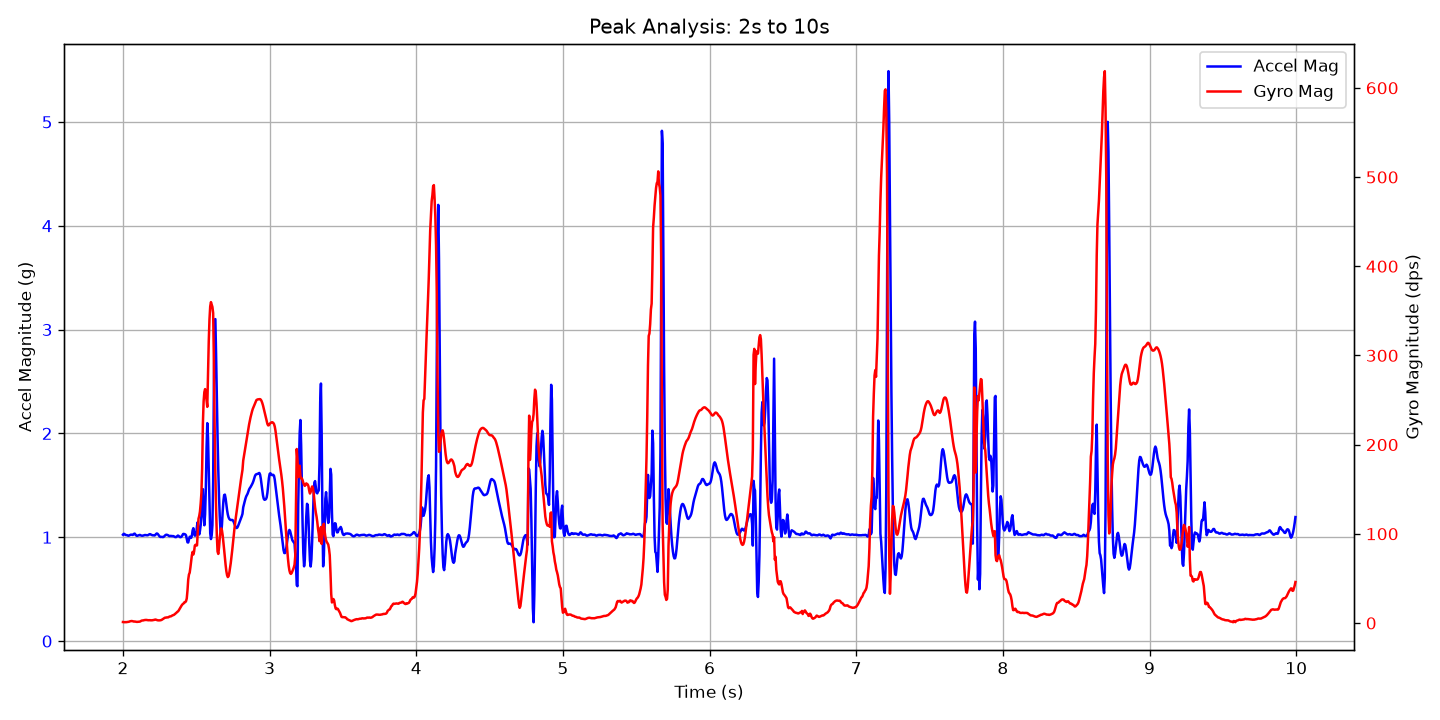
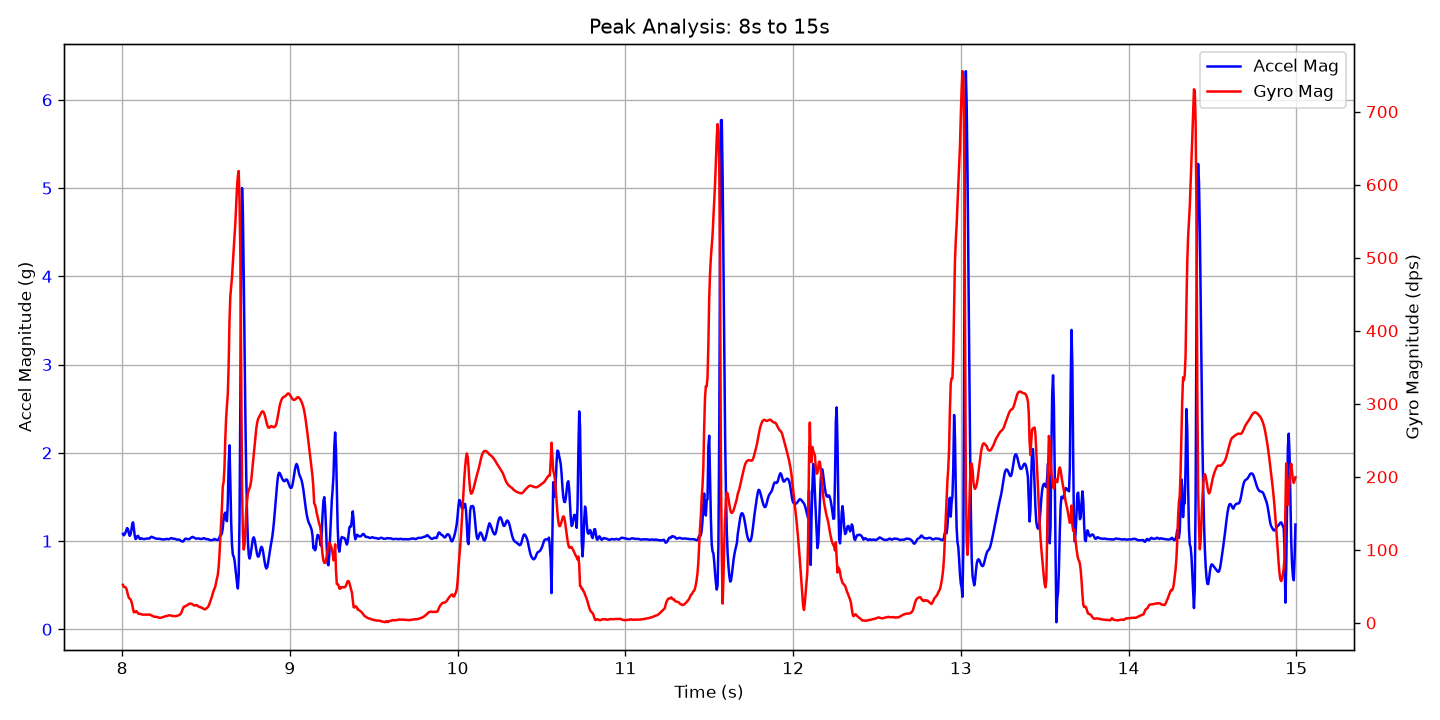
Added another 5s plot

diff --git a/analysis/walk_heel_recordings/walk_and_heel_strike_5s.py b/analysis/walk_heel_recordings/walk_and_heel_strike_5s.py
@@ -18,8 +18,8 @@ acc_mag = np.sqrt(df['ax']**2 + df['ay']**2 + df['az']**2)
 gyr_mag = np.sqrt(df['gx']**2 + df['gy']**2 + df['gz']**2)
 
 
-zoom_start = 2
-zoom_end = 10 
+zoom_start = 8
+zoom_end = 15 
 
 # Create a boolean mask to slice the exact timeframe
 mask = (time_sec >= zoom_start) & (time_sec <= zoom_end)
